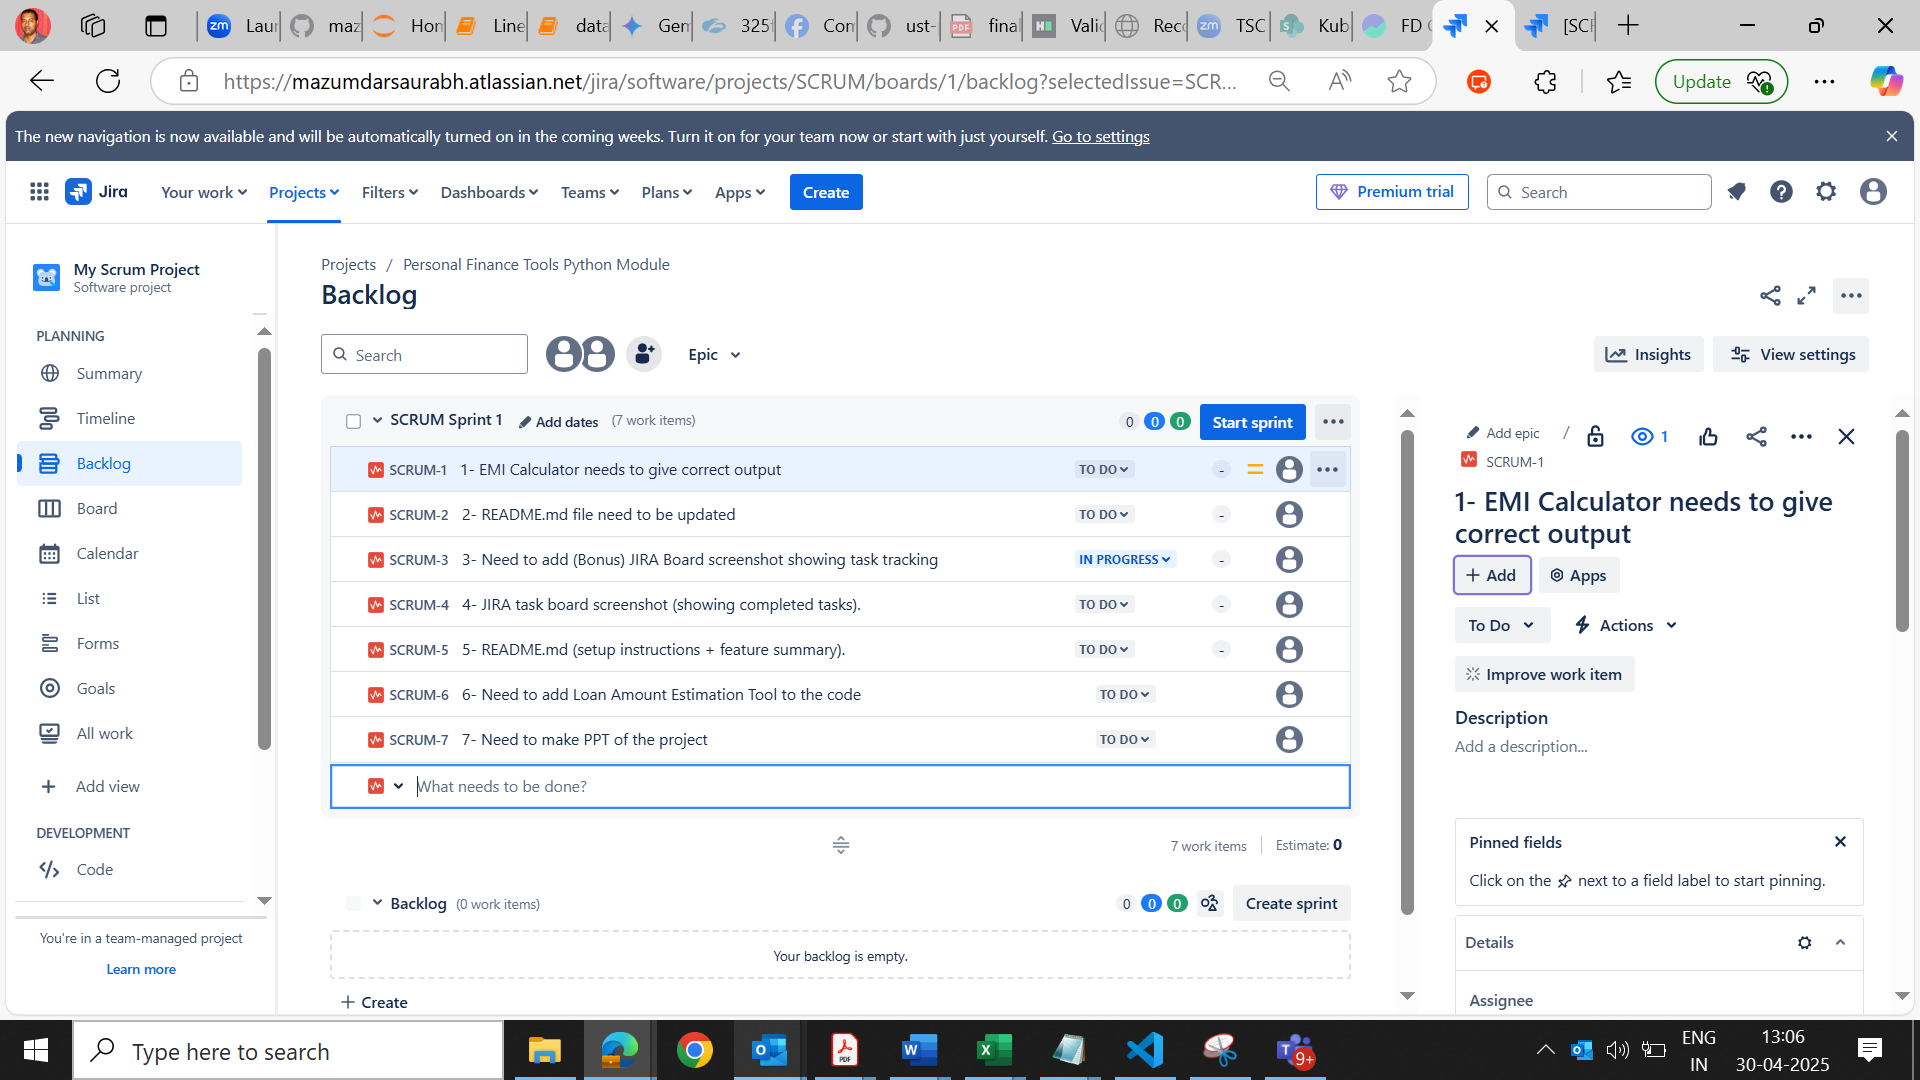
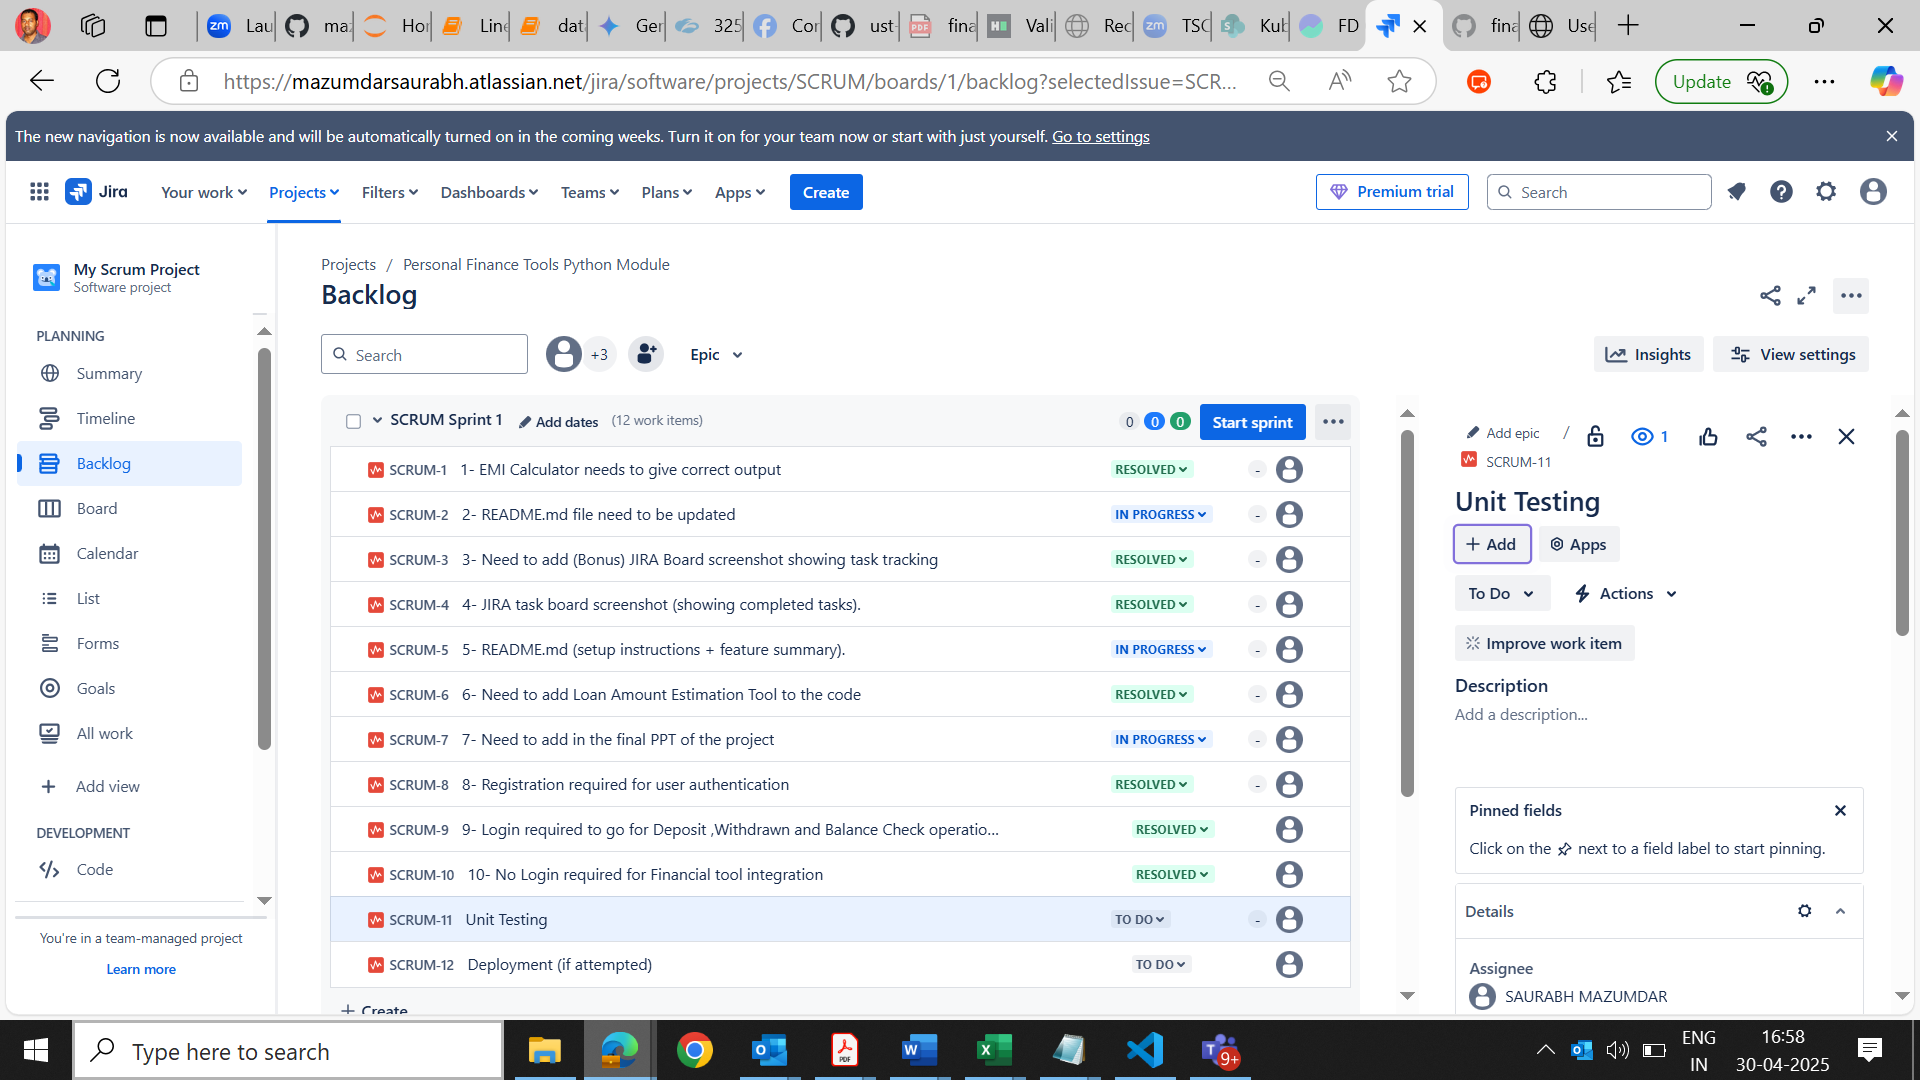
Added Jira Second screenshot to README

diff --git a/README.md b/README.md
@@ -1,1 +1,55 @@
 ![Screenshot of Jira](Screenshot.png)
+
+Step 1: Capture and Save the Screenshot
+
+Capture: Take a screenshot of your JIRA board.
+
+Save: Save the screenshot as an image file (e.g., jira_board.png, jira_board.jpg).
+
+Step 2: Add the Image to Your Repository
+
+Open a terminal in your project's root directory.
+
+Create an "images" folder (if it doesn't exist):
+
+mkdir -p images
+
+Move the image to the "images" folder:
+
+mv jira_board.png images/  #  Replace "jira_board.png" with your actual filename
+
+If you want to put the image in the root directory, skip the mkdir and mv commands.  Just make sure the image file is in your project's root.
+
+Step 3: Update README.md
+
+Open README.md in a text editor.
+
+Add Markdown to reference the image:
+
+## Project Tracking - JIRA Board
+
+Here's our JIRA board:
+
+![JIRA Board Screenshot](images/jira_board.png)  #  Adjust the path if needed
+
+If the image is in the root directory:
+
+## Project Tracking - JIRA Board
+
+Here's our JIRA board:
+
+![JIRA Board Screenshot](jira_board.png)  #  Adjust the filename if needed
+
+Save the README.md file.
+
+Step 4: Commit and Push
+
+Add the image and README.md to Git:
+
+git add images/jira_board.png  #  If image is in "images"
+git add README.md
+
+If the image is in the root directory:
+
+git add jira_board.png
+git add README.md
